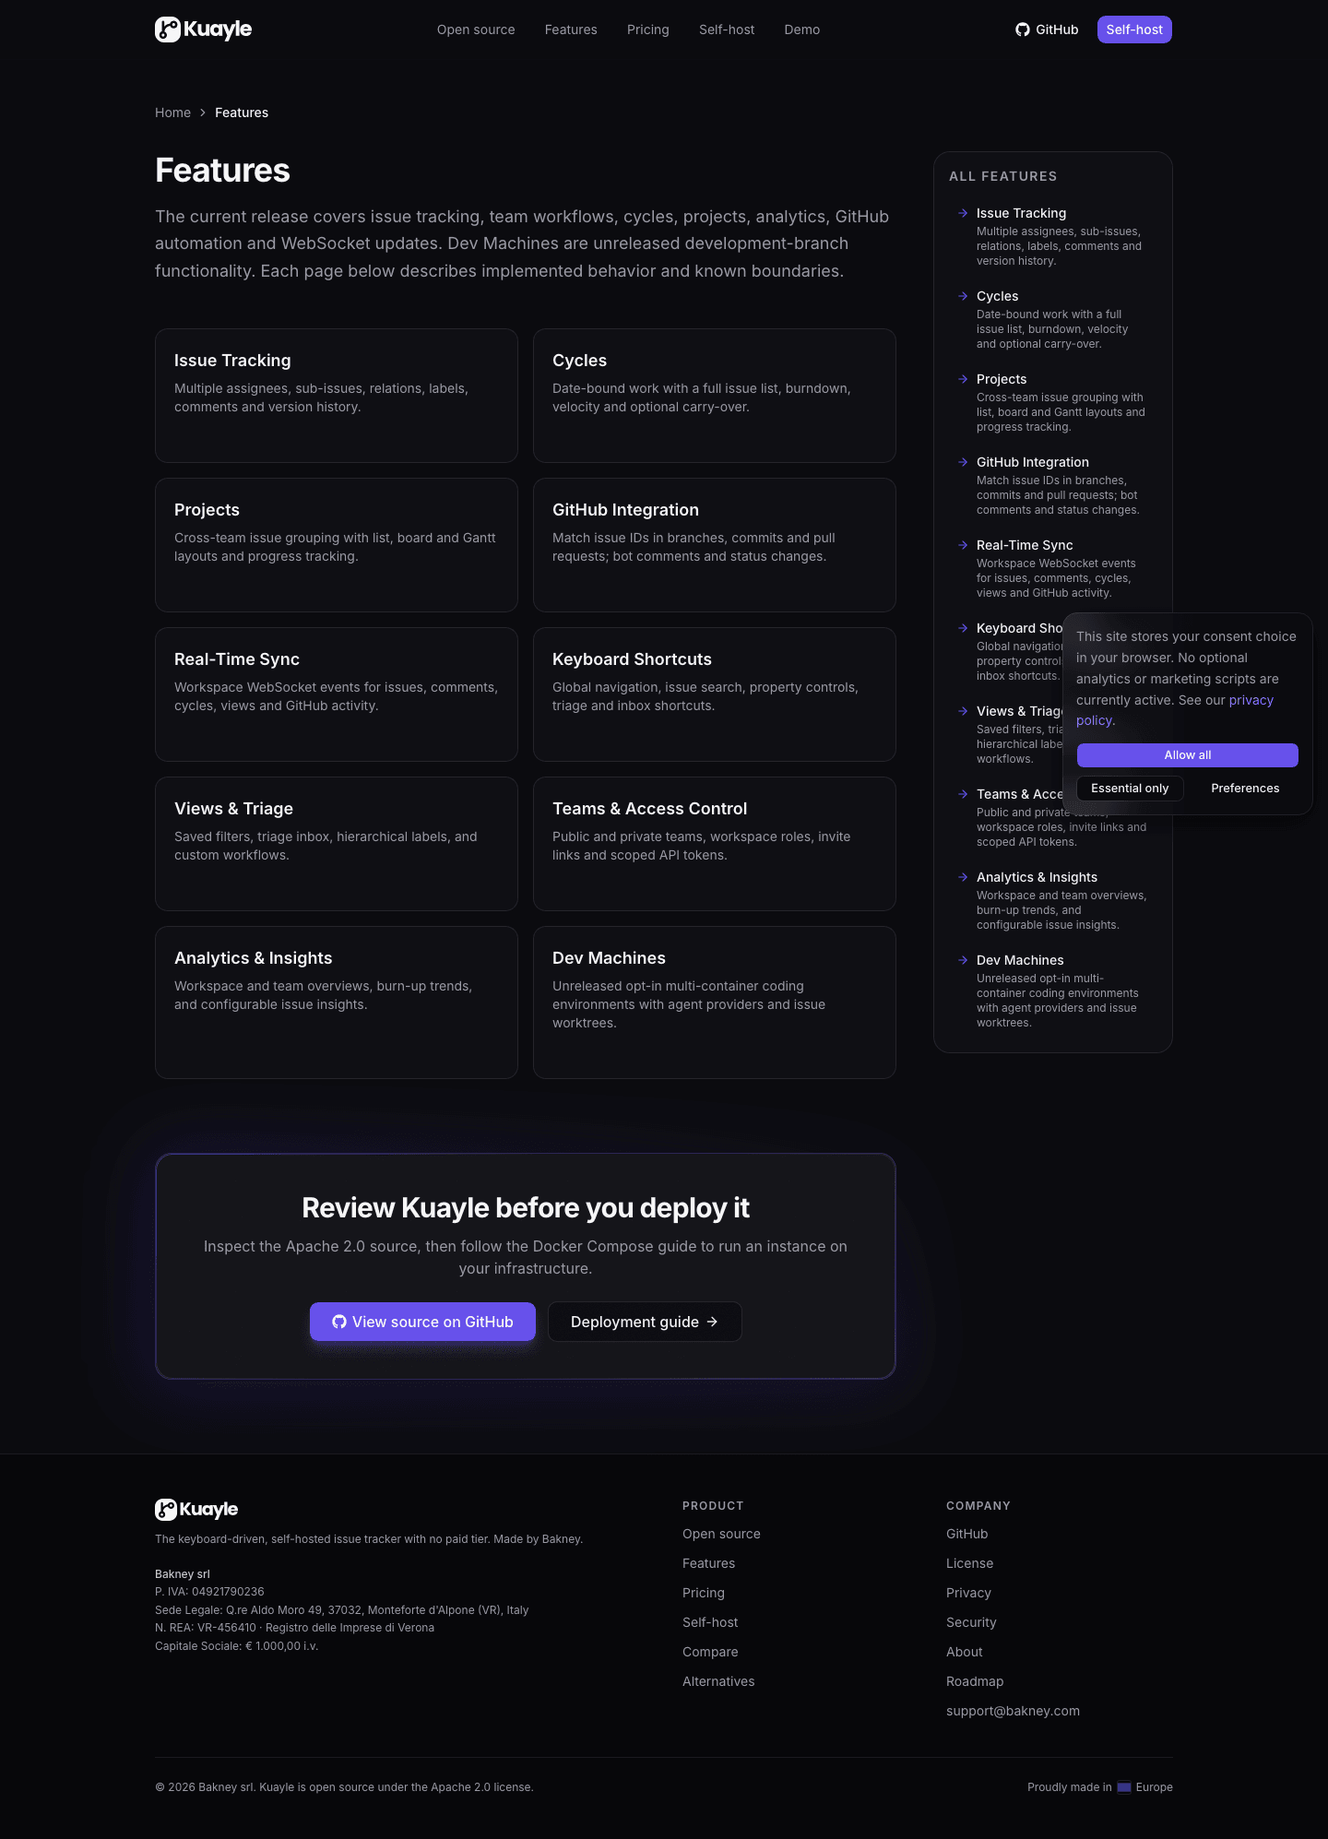
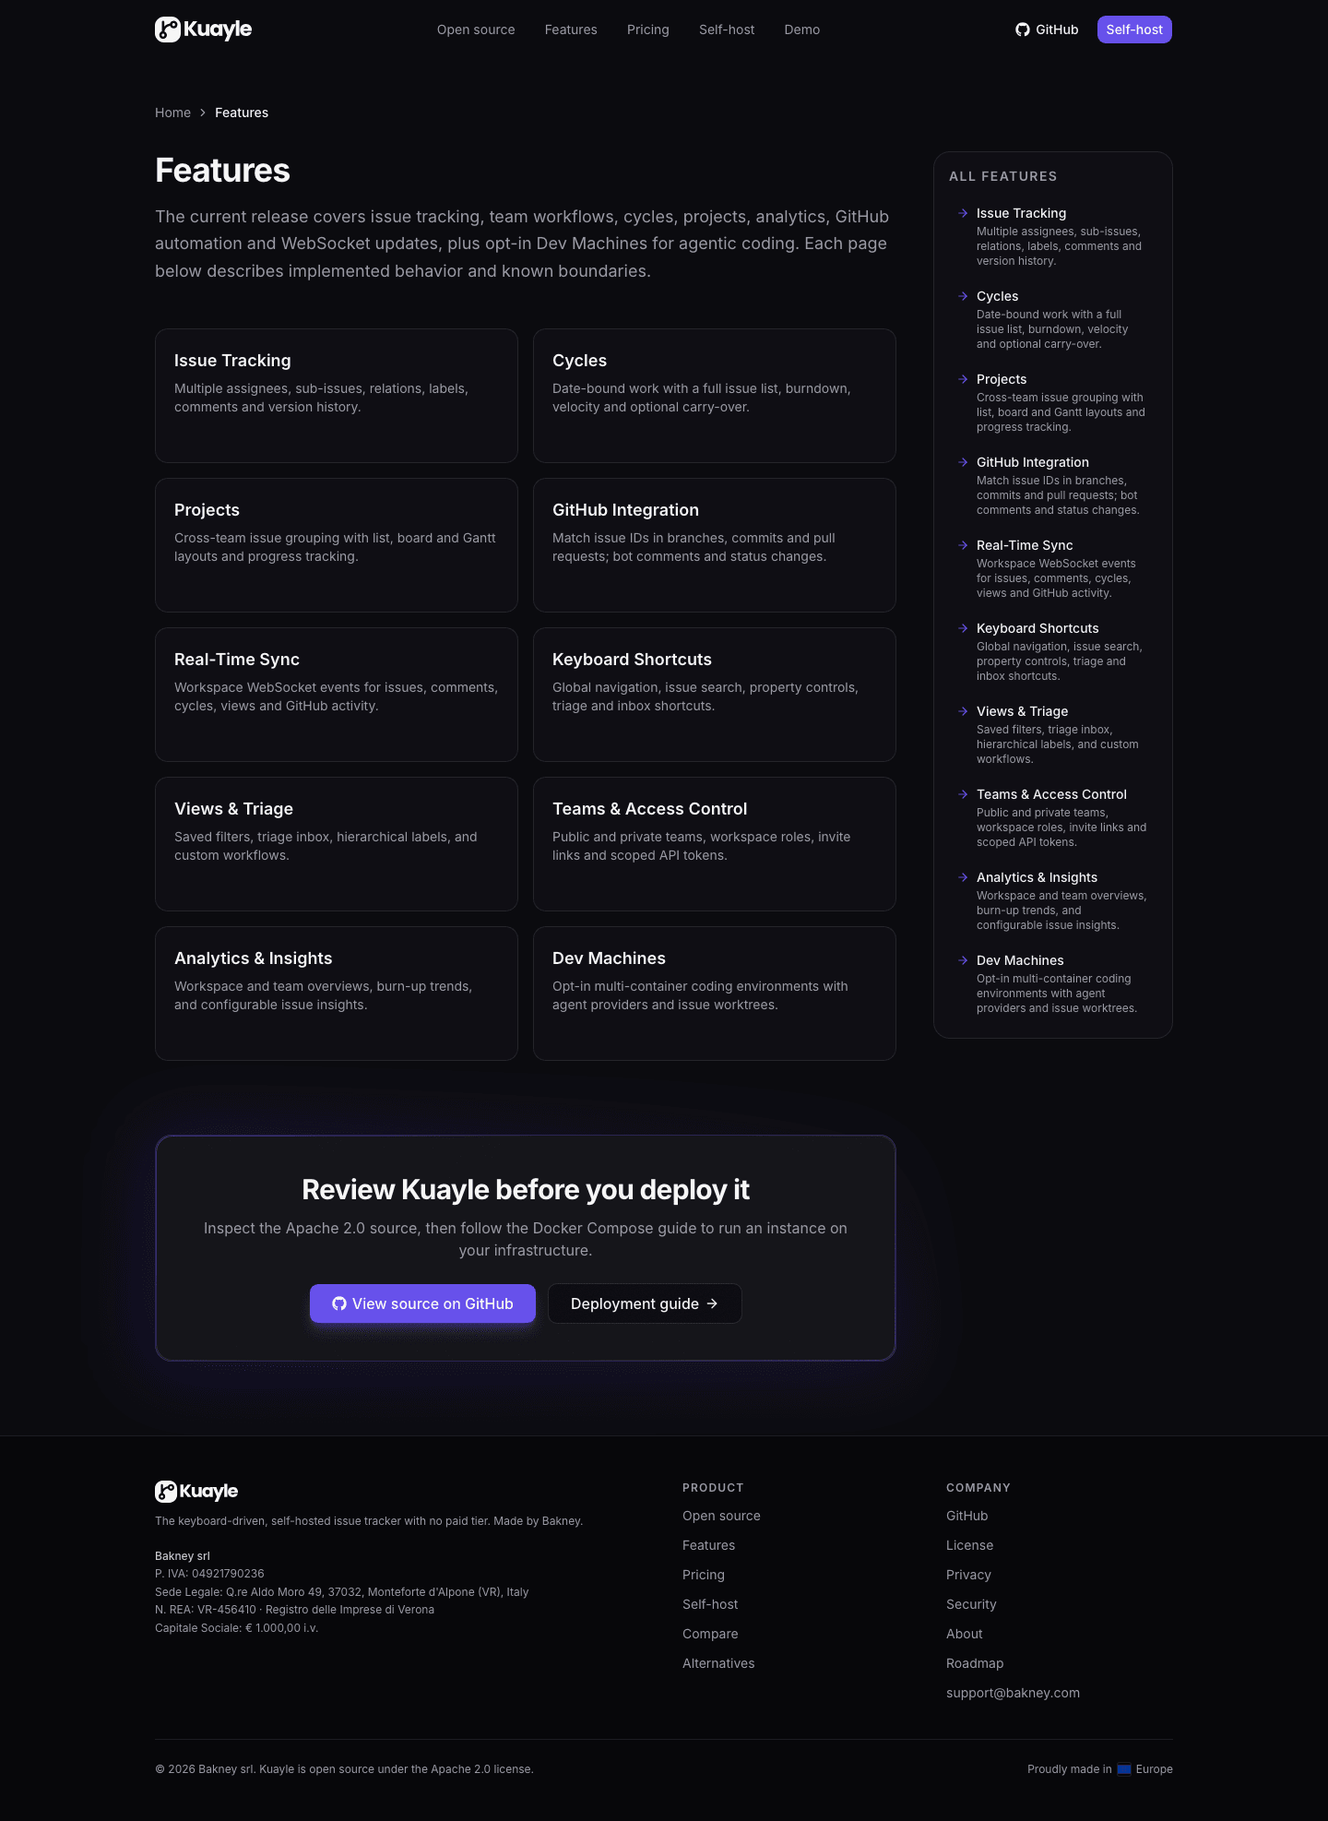
docs(web): describe Dev Machines as a released opt-in subsystem
Dev Machines have shipped in every release since v0.1.13 and are
functional, so drop the "unreleased development-branch" wording from
the marketing site and README. The status tag becomes "Opt-in", and the
SEO validator now rejects any "unreleased" or "development branch"
label on the Dev Machines status pages.

diff --git a/WEB/src/lib/data/routes.ts b/WEB/src/lib/data/routes.ts
@@ -10,7 +10,6 @@
  */
 
 import { url, type PageMeta } from '$lib/config/site';
-import { DEV_MACHINES_RELEASE_STATUS } from '$lib/config/releases';
 import { FALLBACK_VERSION } from '$lib/release.svelte';
 
 // Re-export url for convenience
@@ -90,7 +89,7 @@ export const HUBS: Record<string, Hub> = {
 			{ slug: 'views-and-triage', label: 'Views & Triage', href: '/features/views-and-triage', description: 'Saved filters, triage inbox, hierarchical labels, and custom workflows.' },
 			{ slug: 'teams-and-access-control', label: 'Teams & Access Control', href: '/features/teams-and-access-control', description: 'Public and private teams, workspace roles, invite links and scoped API tokens.' },
 			{ slug: 'analytics-insights', label: 'Analytics & Insights', href: '/features/analytics-insights', description: 'Workspace and team overviews, burn-up trends, and configurable issue insights.' },
-			{ slug: 'dev-machines', label: 'Dev Machines', href: '/features/dev-machines', description: `${DEV_MACHINES_RELEASE_STATUS} opt-in multi-container coding environments with agent providers and issue worktrees.` }
+			{ slug: 'dev-machines', label: 'Dev Machines', href: '/features/dev-machines', description: 'Opt-in multi-container coding environments with agent providers and issue worktrees.' }
 		]
 	},
 	selfHosting: {
@@ -105,7 +104,7 @@ export const HUBS: Record<string, Hub> = {
 			{ slug: 'storage', label: 'Storage', href: '/self-hosting/storage', description: 'Local filesystem and S3-compatible storage backends.' },
 			{ slug: 'github-app', label: 'GitHub App', href: '/self-hosting/github-app', description: 'Set up the GitHub integration, webhook delivery and pull-request bot comments.' },
 			{ slug: 'workspace-transfer', label: 'Workspace Transfer', href: '/self-hosting/workspace-transfer', description: 'Export a workspace archive and import it into another instance.' },
-			{ slug: 'dev-machines', label: 'Dev Machines', href: '/self-hosting/dev-machines', description: `Prepare the ${DEV_MACHINES_RELEASE_STATUS.toLowerCase()} opt-in agentic coding subsystem with wildcard TLS.` }
+			{ slug: 'dev-machines', label: 'Dev Machines', href: '/self-hosting/dev-machines', description: 'Enable the opt-in agentic coding subsystem with wildcard TLS.' }
 		]
 	},
 	compare: {
@@ -140,7 +139,7 @@ export interface StandalonePage {
 
 export const STANDALONE_PAGES: StandalonePage[] = [
 	{ slug: '', title: '', description: '', canonical: url('/'), inSitemap: true },
-	{ slug: 'features', title: 'Kuayle Features — Issues, Cycles, Projects and GitHub', description: `Review released issue tracking, version history, private teams, cycle, project, GitHub and analytics features alongside ${DEV_MACHINES_RELEASE_STATUS.toLowerCase()} Dev Machine development.`, canonical: url('/features'), inSitemap: true },
+	{ slug: 'features', title: 'Kuayle Features — Issues, Cycles, Projects and GitHub', description: `Review released issue tracking, version history, private teams, cycle, project, GitHub and analytics features, plus opt-in Dev Machines.`, canonical: url('/features'), inSitemap: true },
 	{ slug: 'self-hosting', title: 'Self-Host Kuayle With Docker Compose', description: 'Deploy Kuayle with Caddy, PostgreSQL, Redis, the Go API and SvelteKit frontend; configure storage, updates, GitHub webhooks and workspace transfer.', canonical: url('/self-hosting'), inSitemap: true },
 	{ slug: 'compare', title: 'Compare Kuayle — Issue Tracker Comparisons', description: 'Compare Kuayle with Linear and Plane by hosting model, license, workflow coverage, product maturity and operating cost.', canonical: url('/compare'), inSitemap: true },
 	{ slug: 'alternatives', title: 'Issue Tracker Alternatives — Kuayle', description: 'Compare open-source and self-hosted issue trackers by license, edition model, product scope, deployment footprint and operator responsibility.', canonical: url('/alternatives'), inSitemap: true },

diff --git a/WEB/src/routes/about/+page.svelte b/WEB/src/routes/about/+page.svelte
@@ -1,7 +1,6 @@
 <script lang="ts">
 	import StandalonePage from '$lib/components/StandalonePage.svelte';
 	import { contentModifiedAt, url } from '$lib/config/site';
-	import { DEV_MACHINES_RELEASE_STATUS } from '$lib/config/releases';
 	import { breadcrumbsFrom } from '$lib/data/routes';
 	import { useLatestRelease } from '$lib/release.svelte';
 
@@ -19,7 +18,7 @@
 	const sections = $derived([
 		{
 			heading: 'What Kuayle is',
-			body: `Kuayle is a self-hosted issue tracker with keyboard shortcuts, multi-assignee issues, cycles, projects, analytics and GitHub automation. An ${DEV_MACHINES_RELEASE_STATUS.toLowerCase()} opt-in Dev Machines subsystem adds agentic coding environments on the development branch. The name comes from 快乐 (kuàilè), the Chinese word for happiness or joy.`,
+			body: `Kuayle is a self-hosted issue tracker with keyboard shortcuts, multi-assignee issues, cycles, projects, analytics and GitHub automation. An opt-in Dev Machines subsystem adds self-hosted agentic coding environments. The name comes from 快乐 (kuàilè), the Chinese word for happiness or joy.`,
 			list: [
 				'Name: 快乐 (kuàilè) — happiness, joy',
 				`Current version: ${release.version}`,
@@ -60,13 +59,13 @@
 		},
 		{
 			heading: 'Current state',
-			body: `Version ${release.version} is a runnable MVP, not a mature enterprise platform. Core issue workflows, cycles, projects, analytics, GitHub integration, public sharing, private teams and workspace roles are available. Dev Machines are ${DEV_MACHINES_RELEASE_STATUS.toLowerCase()} development-branch infrastructure. Importers from other trackers and enterprise identity integrations are not implemented.`,
+			body: `Version ${release.version} is a runnable MVP, not a mature enterprise platform. Core issue workflows, cycles, projects, analytics, GitHub integration, public sharing, private teams and workspace roles are available. Dev Machines are available as an opt-in subsystem. Importers from other trackers and enterprise identity integrations are not implemented.`,
 			list: [
 				'Available: issues, labels, comments, version history, sub-issues and relations',
 				'Available: cycles and projects with the full issue list, charts, a Gantt view and insights analytics',
 				'Available: private teams, invite links, personal access tokens and workspace export/import',
 				'Available: GitHub activity linking, status transitions and pull-request issue-link comments',
-				`${DEV_MACHINES_RELEASE_STATUS}: opt-in Dev Machines with agent providers and issue worktrees`,
+				'Available (opt-in): Dev Machines with agent providers and issue worktrees',
 				'Not available: SSO, SCIM, LDAP and importers from other tools'
 			]
 		}

diff --git a/WEB/src/routes/roadmap/+page.svelte b/WEB/src/routes/roadmap/+page.svelte
@@ -1,6 +1,5 @@
 <script lang="ts">
 	import StandalonePage from '$lib/components/StandalonePage.svelte';
-	import { DEV_MACHINES_RELEASE_STATUS } from '$lib/config/releases';
 	import { contentModifiedAt, url } from '$lib/config/site';
 	import { breadcrumbsFrom } from '$lib/data/routes';
 	import { useLatestRelease } from '$lib/release.svelte';
@@ -9,7 +8,7 @@
 
 	const meta = {
 		title: 'Kuayle Roadmap and Development Status',
-		description: 'Kuayle development status, known product gaps, the unreleased Dev Machines subsystem, and where to follow proposed work.',
+		description: 'Kuayle development status, known product gaps, the opt-in Dev Machines subsystem, and where to follow proposed work.',
 		canonical: url('/roadmap'),
 		modifiedAt: contentModifiedAt('/roadmap')
 	};
@@ -53,8 +52,8 @@
 			]
 		},
 		{
-			heading: `Dev Machines is ${DEV_MACHINES_RELEASE_STATUS.toLowerCase()} opt-in infrastructure`,
-			body: 'The development branch includes the opt-in multi-container Dev Machines subsystem, but no published release contains it yet. It adds Caddy wildcard ingress, an unprivileged authenticated gateway, a dedicated Docker manager, isolated machine networks, PostgreSQL reconciliation, scoped secrets, activity collection, issue-linked agent runs, and Claude Code, OpenCode, Codex, and custom CLI adapters. Self-hosted operators must explicitly configure the machine domain, TLS, runtime images, GitHub permissions, and capacity.',
+			heading: 'Dev Machines are opt-in infrastructure',
+			body: 'Releases since v0.1.13 include the opt-in multi-container Dev Machines subsystem. It adds Caddy wildcard ingress, an unprivileged authenticated gateway, a dedicated Docker manager, isolated machine networks, PostgreSQL reconciliation, scoped secrets, activity collection, issue-linked agent runs, and Claude Code, OpenCode, Codex, and custom CLI adapters. Self-hosted operators must explicitly configure the machine domain, TLS, runtime images, GitHub permissions, and capacity.',
 			list: [
 				'Disabled by default',
 				'Requires wildcard DNS and TLS',

diff --git a/WEB/src/lib/data/compare.ts b/WEB/src/lib/data/compare.ts
@@ -43,7 +43,7 @@ export const compare: ContentRegistry = {
 				body: 'Check required integrations before choosing either product.',
 				list: [
 					'Linear: documents integrations for GitHub, GitLab, Slack, its API, and enterprise identity features.',
-					'Kuayle integrates with GitHub (activity linking, status automation and pull-request issue-link comments), generic webhooks and a personal-access-token API. Its development branch includes an unreleased opt-in Dev Machines subsystem for agentic coding runs. It does not currently provide GitLab, Slack, SSO, SCIM or LDAP integrations.'
+					'Kuayle integrates with GitHub (activity linking, status automation and pull-request issue-link comments), generic webhooks and a personal-access-token API. It also ships an opt-in Dev Machines subsystem for agentic coding runs. It does not currently provide GitLab, Slack, SSO, SCIM or LDAP integrations.'
 				]
 			},
 			{
@@ -122,7 +122,7 @@ export const compare: ContentRegistry = {
 				body: 'Plane documents a wider integration and migration catalog.',
 				list: [
 					'Plane: GitHub, GitLab, Slack integrations. Importer for multiple platforms. API and webhooks.',
-					'Kuayle: self-configuring GitHub App with auto-linking, auto-transitions, pull-request issue-link comments and real-time WebSocket events. Webhooks and personal access tokens. Unreleased opt-in Dev Machines development. Workspace export/import between Kuayle instances; no importers from other tools.'
+					'Kuayle: self-configuring GitHub App with auto-linking, auto-transitions, pull-request issue-link comments and real-time WebSocket events. Webhooks and personal access tokens. Opt-in Dev Machines for agentic coding. Workspace export/import between Kuayle instances; no importers from other tools.'
 				]
 			},
 			{

diff --git a/WEB/src/lib/data/features.ts b/WEB/src/lib/data/features.ts
@@ -3,7 +3,6 @@
  * Each entry maps to /features/[slug].
  */
 import type { ContentRegistry } from './routes';
-import { DEV_MACHINES_RELEASE_STATUS } from '$lib/config/releases';
 
 export const features: ContentRegistry = {
 	'issue-tracking': {
@@ -461,9 +460,9 @@ export const features: ContentRegistry = {
 		slug: 'dev-machines',
 		title: 'Dev Machines — Kuayle',
 		description:
-			'Unreleased opt-in multi-container development environments with code-server, a native terminal, agent providers, an in-browser Chrome, and issue worktrees.',
+			'Opt-in multi-container development environments with code-server, a native terminal, agent providers, an in-browser Chrome, and issue worktrees.',
 		heading: 'Dev Machines',
-		intro: `Dev Machines are an ${DEV_MACHINES_RELEASE_STATUS.toLowerCase()} opt-in self-hosted subsystem on the development branch. Every machine has collector and egress services on an isolated network; it may include a shared developer/terminal container and browser, while agent containers are created on demand. Access is routed through an authenticated gateway. The subsystem is disabled by default.`,
+		intro: `Dev Machines are an opt-in self-hosted subsystem, included in releases since v0.1.13. Every machine has collector and egress services on an isolated network; it may include a shared developer/terminal container and browser, while agent containers are created on demand. Access is routed through an authenticated gateway. The subsystem is disabled by default.`,
 		sections: [
 			{
 				heading: 'A full environment per machine',

diff --git a/WEB/src/lib/data/self-hosting.ts b/WEB/src/lib/data/self-hosting.ts
@@ -5,7 +5,6 @@
  * Content is aligned with the actual README and selfhosting/ configs.
  */
 import type { ContentRegistry } from './routes';
-import { DEV_MACHINES_RELEASE_STATUS } from '$lib/config/releases';
 
 export const selfHosting: ContentRegistry = {
 	'docker-compose': {
@@ -305,9 +304,9 @@ export const selfHosting: ContentRegistry = {
 		slug: 'dev-machines',
 		title: 'Dev Machines Setup — Self-Hosting Kuayle',
 		description:
-			'Prepare the unreleased opt-in Dev Machines subsystem: a separate wildcard domain, wildcard TLS, encrypted secrets, runtime images, and the gateway/manager control plane.',
+			'Enable the opt-in Dev Machines subsystem: a separate wildcard domain, wildcard TLS, encrypted secrets, runtime images, and the gateway/manager control plane.',
 		heading: 'Dev Machines Setup',
-		intro: `Dev Machines are ${DEV_MACHINES_RELEASE_STATUS.toLowerCase()} development-branch functionality and remain disabled in the default five-service deployment. Enabling them adds a machine gateway, a Docker manager and per-machine container runtimes. Read TECHNICAL.md in the repository before enabling the subsystem.`,
+		intro: `Dev Machines are an opt-in subsystem, included in releases since v0.1.13, and remain disabled in the default five-service deployment. Enabling them adds a machine gateway, a Docker manager and per-machine container runtimes. Read TECHNICAL.md in the repository before enabling the subsystem.`,
 		sections: [
 			{
 				heading: 'Prerequisites',

diff --git a/WEB/src/lib/components/Features.svelte b/WEB/src/lib/components/Features.svelte
@@ -50,7 +50,7 @@
 			icon: SquareTerminal,
 			title: 'Dev Machines',
 			description:
-				'Unreleased opt-in multi-container coding environments: code-server, a native terminal, an in-browser Chrome and agent providers working issue worktrees — all behind an authenticated gateway.',
+				'Opt-in multi-container coding environments: code-server, a native terminal, an in-browser Chrome and agent providers working issue worktrees — all behind an authenticated gateway.',
 			href: '/features/dev-machines',
 			span: 'lg:col-span-3',
 			tags: [DEV_MACHINES_RELEASE_STATUS, 'Claude Code', 'OpenCode', 'Codex', 'Custom CLIs']
@@ -137,8 +137,7 @@
 			<h2 class="mt-3 text-3xl font-bold tracking-tight sm:text-4xl">Implemented in Kuayle today</h2>
 			<p class="mt-4 text-lg text-muted-foreground">
 				The current {release.version} release covers issue tracking, cycles and projects, private teams, GitHub automation
-				and analytics. Dev Machines are {DEV_MACHINES_RELEASE_STATUS.toLowerCase()}
-				development-branch functionality. The source for each feature is available in the public repository.
+				and analytics, plus opt-in Dev Machines for agentic coding. The source for each feature is available in the public repository.
 			</p>
 		</div>
 

diff --git a/WEB/src/routes/features/+page.svelte b/WEB/src/routes/features/+page.svelte
@@ -8,7 +8,6 @@
 	import { reveal } from '$lib/actions/reveal';
 	import { HUBS, breadcrumbsFrom, metaForStandalone, webPageLd } from '$lib/data/routes';
 	import { url } from '$lib/config/site';
-	import { DEV_MACHINES_RELEASE_STATUS } from '$lib/config/releases';
 	import ArrowRight from '@lucide/svelte/icons/arrow-right';
 
 	const hub = HUBS.features;
@@ -32,8 +31,7 @@
 				<h1 class="text-4xl font-bold tracking-tight">Features</h1>
 				<p class="mt-4 text-lg leading-relaxed text-muted-foreground">
 					The current release covers issue tracking, team workflows, cycles, projects, analytics, GitHub automation and
-					WebSocket updates. Dev Machines are {DEV_MACHINES_RELEASE_STATUS.toLowerCase()}
-					development-branch functionality. Each page below describes implemented behavior and known boundaries.
+					WebSocket updates, plus opt-in Dev Machines for agentic coding. Each page below describes implemented behavior and known boundaries.
 				</p>
 			</div>
 

diff --git a/WEB/src/routes/self-hosting/+page.svelte b/WEB/src/routes/self-hosting/+page.svelte
@@ -8,7 +8,6 @@
 	import { reveal } from '$lib/actions/reveal';
 	import { HUBS, breadcrumbsFrom, metaForStandalone, webPageLd } from '$lib/data/routes';
 	import { url } from '$lib/config/site';
-	import { DEV_MACHINES_RELEASE_STATUS } from '$lib/config/releases';
 	import ArrowRight from '@lucide/svelte/icons/arrow-right';
 
 	const hub = HUBS.selfHosting;
@@ -32,7 +31,7 @@
 				<h1 class="text-4xl font-bold tracking-tight">Self-Hosting Kuayle</h1>
 				<p class="mt-4 text-lg leading-relaxed text-muted-foreground">
 					The reference Docker Compose stack runs Caddy, PostgreSQL 17, Redis 7, the Go API and the SvelteKit frontend.
-					These guides cover configuration, storage, updates, GitHub webhook delivery and the {DEV_MACHINES_RELEASE_STATUS.toLowerCase()}
+					These guides cover configuration, storage, updates, GitHub webhook delivery and the
 					opt-in Dev Machines subsystem—including the work that remains with the operator.
 				</p>
 			</div>

diff --git a/WEB/src/lib/components/Pricing.svelte b/WEB/src/lib/components/Pricing.svelte
@@ -1,7 +1,6 @@
 <script lang="ts">
 	import { reveal } from '$lib/actions/reveal';
 	import { Button } from '$lib/components/ui/button';
-	import { DEV_MACHINES_RELEASE_STATUS } from '$lib/config/releases';
 	import Check from '@lucide/svelte/icons/check';
 
 	const included = [
@@ -14,7 +13,7 @@
 		'Saved views, triage and labels',
 		'Analytics and configurable insights',
 		'Workspace export and import',
-		`${DEV_MACHINES_RELEASE_STATUS} opt-in Dev Machines subsystem`,
+		'Opt-in Dev Machines subsystem',
 		'Public share links and personal access tokens',
 		'Apache 2.0 source code'
 	];

diff --git a/WEB/src/lib/components/Hero.svelte b/WEB/src/lib/components/Hero.svelte
@@ -62,8 +62,8 @@
     >
       Run Kuayle on your own infrastructure. Plan multi-assignee issues in cycles
       and projects, keep private teams private and link GitHub pull requests to
-      issues, all from one Apache 2.0-licensed codebase. Unreleased opt-in Dev
-      Machines are documented separately from the public release.
+      issues, all from one Apache 2.0-licensed codebase. Opt-in Dev Machines add
+      self-hosted agentic coding environments.
     </p>
 
     <div

diff --git a/WEB/src/lib/components/DevMachines.svelte b/WEB/src/lib/components/DevMachines.svelte
@@ -62,7 +62,7 @@
 						How Dev Machines work <ArrowRight class="size-3.5" />
 					</a>
 					<span class="text-xs text-muted-foreground">
-						{DEV_MACHINES_RELEASE_STATUS} · opt-in subsystem · disabled by default ·
+						Opt-in subsystem · disabled by default ·
 						<a href="/self-hosting/dev-machines" class="underline underline-offset-4 hover:text-foreground"
 							>setup guide</a
 						>
